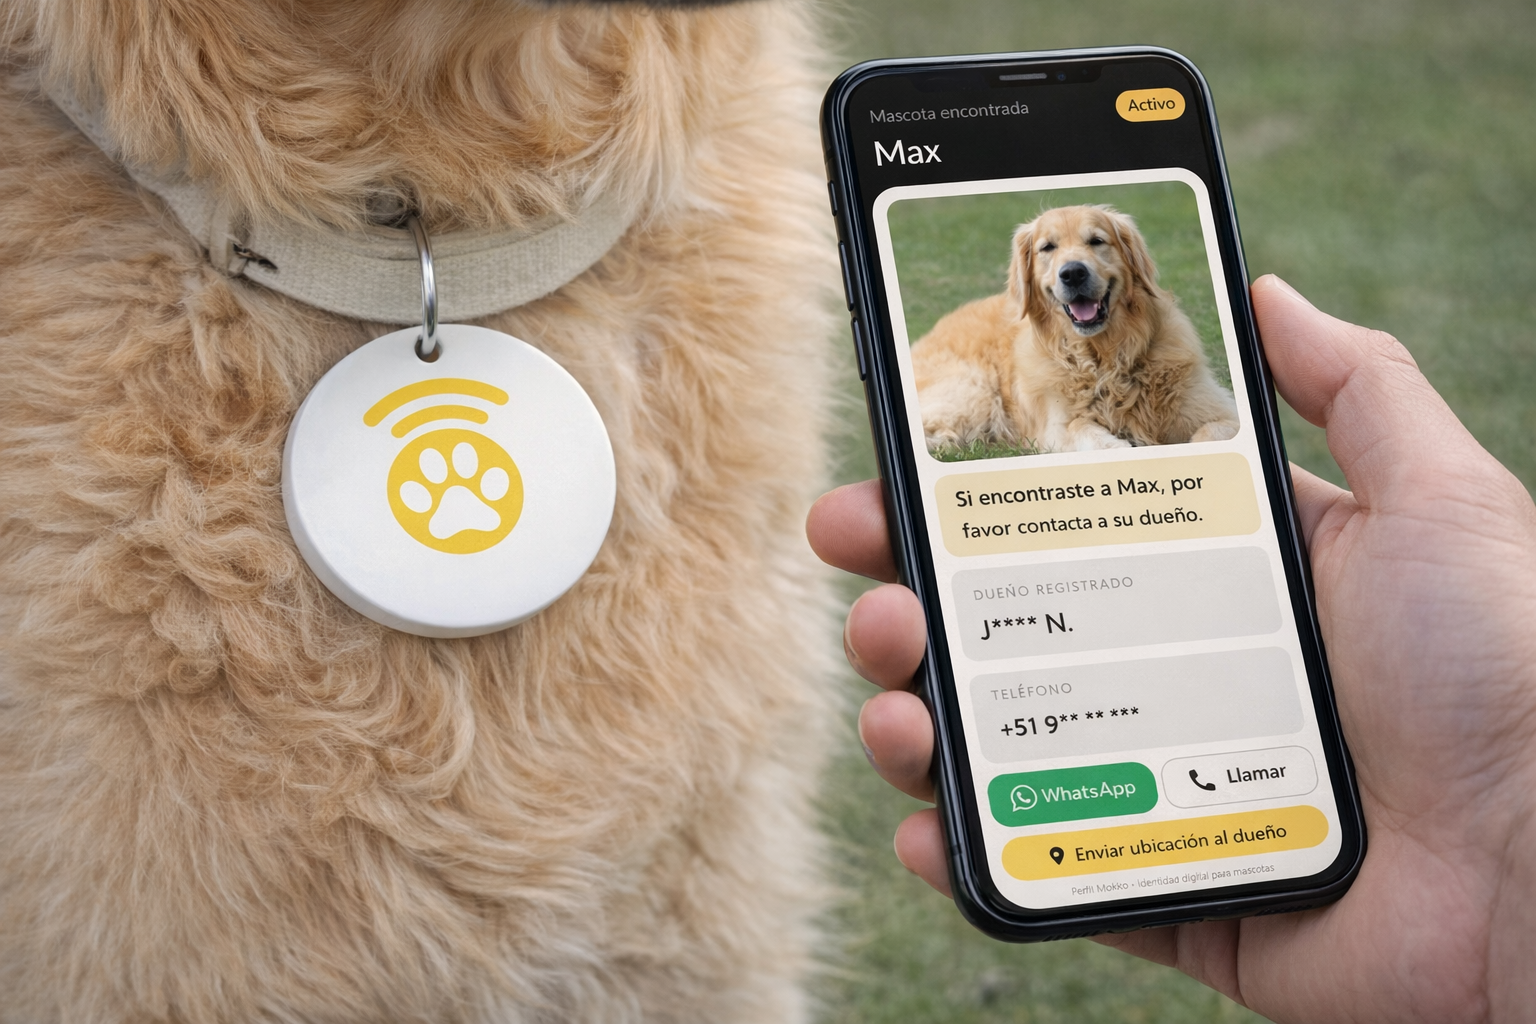
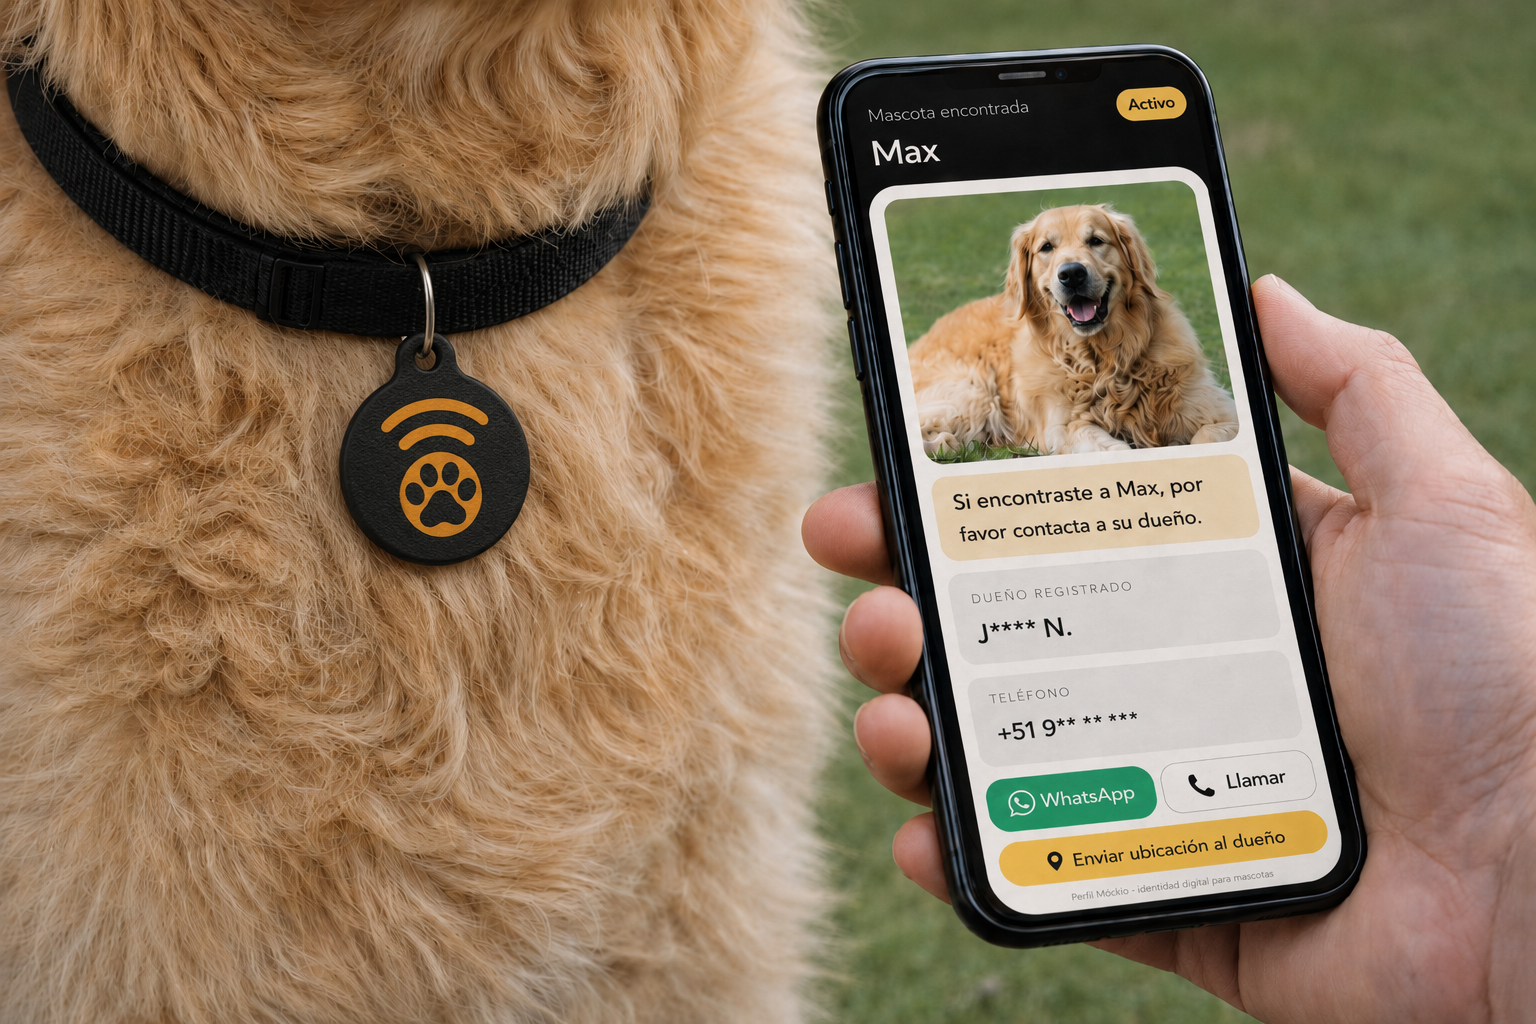
Actualizar tamaños de placas e imagen de Mokko

diff --git a/src/pages/Order.tsx b/src/pages/Order.tsx
@@ -98,7 +98,7 @@ function obtenerLabelForma(shape: PlateShape) {
 
 function obtenerDetalleTamano(item: OrderPlateItem) {
   if (item.planType === "essential") {
-    return "3 cm diámetro";
+    return "3.4 cm diámetro";
   }
 
   return (
@@ -626,7 +626,7 @@ export default function Order() {
                             <div className="rounded-2xl border border-white/10 bg-[#141410] p-4 text-sm leading-7 text-white/70">
                               Essential usa formato fijo:{" "}
                               <span className="font-medium text-white">
-                                circular · 3 cm de diámetro · color a elección.
+                                circular · 3.4 cm de diámetro · color a elección.
                               </span>
                             </div>
                           ) : (
@@ -672,8 +672,7 @@ export default function Order() {
                                 </div>
 
                                 <p className="mt-2 text-xs leading-6 text-white/45">
-                                  Los tamaños mínimos ya consideran el espacio
-                                  físico del chip NFC.
+                                  Las medidas corresponden al cuerpo principal de la placa, sin contar la zona de la argolla.
                                 </p>
                               </section>
                             </>